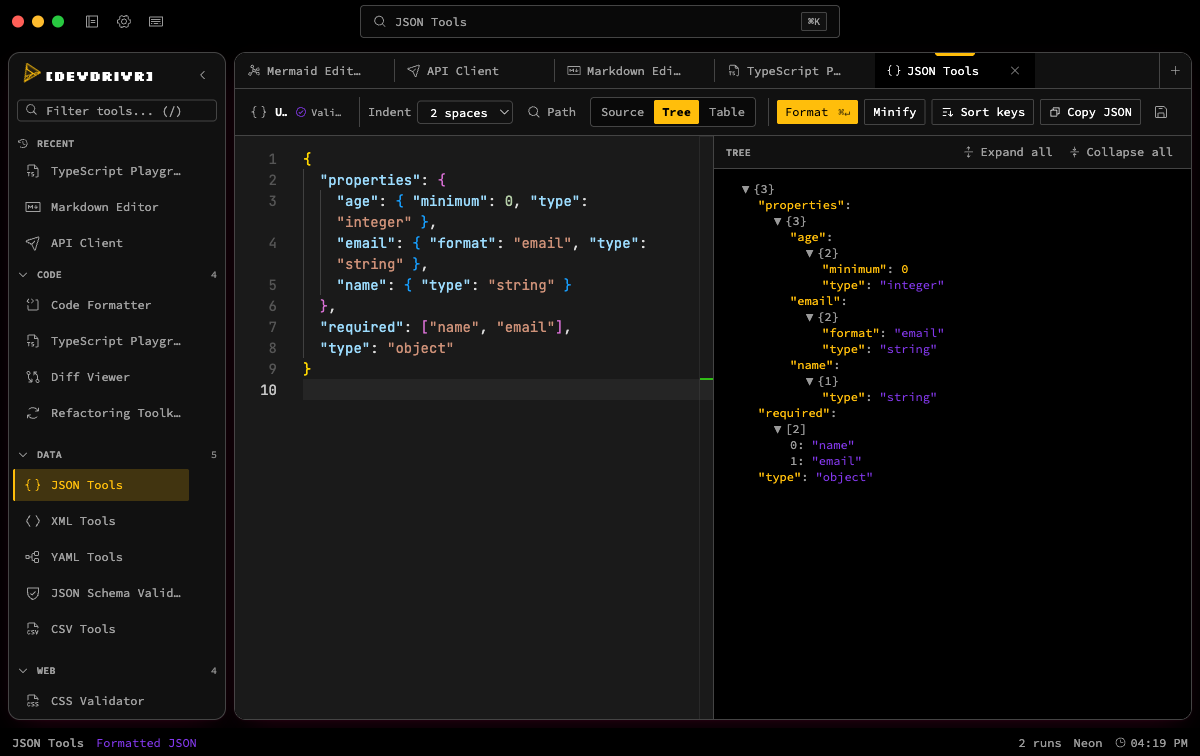
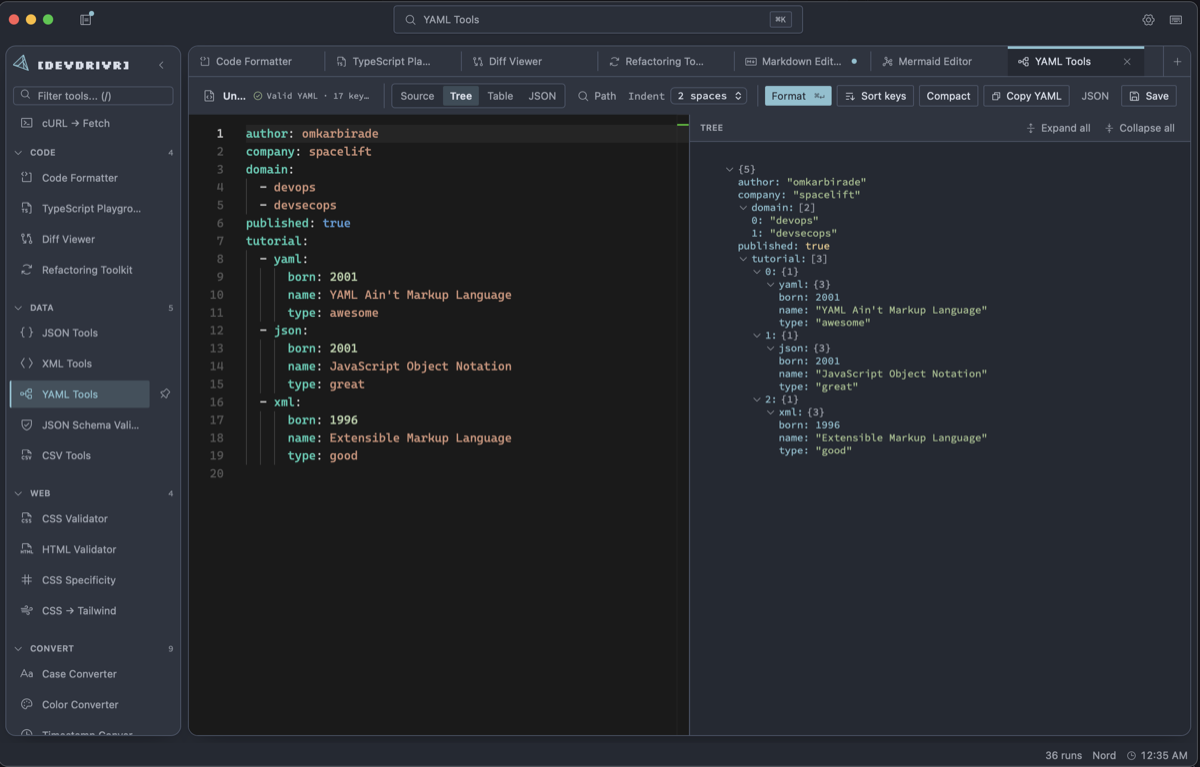
docs: refresh README screenshots
Replaces the overview, code, data and writing shots with current captures
and adds two more: Code Formatter and CSV Tools. Alt text and captions now
describe what each image actually shows — the code slot is the Diff Viewer
rather than the TypeScript Playground, and the data slot is YAML Tools
rather than JSON Tools.

The API Client shot is unchanged; there was no new capture for it.

diff --git a/README.md b/README.md
@@ -89,13 +89,21 @@ bun run build:web    # Production web build
 
 ## Screenshots
 
-![TypeScript Playground with source, compiled output, and problems](screenshots/cockpit-code-tools.png)
+![Code Formatter with JavaScript source and formatting options](screenshots/cockpit-code-formatter.png)
 
-**Code** — Edit, compile, compare, and refactor without leaving the workspace.
+**Format** — Prettier-backed formatting with indent, quote, semicolon, and trailing-comma controls.
 
-![JSON Tools showing source and tree inspection side by side](screenshots/cockpit-data-tools.png)
+![Diff Viewer comparing two files side by side above a unified patch](screenshots/cockpit-code-tools.png)
+
+**Compare** — Side-by-side and unified diffs, whitespace and case folding, patches you can copy or save.
+
+![YAML Tools showing source and an expandable tree inspector](screenshots/cockpit-data-tools.png)
 
 **Data** — Inspect, validate, format, and convert structured data side by side.
+
+![CSV Tools showing raw CSV beside a sortable, filterable table](screenshots/cockpit-csv-tools.png)
+
+**Tabular** — Read CSV as a sortable table, convert it to JSON, or validate it against a schema.
 
 ![API Client with a saved request library and request workspace](screenshots/cockpit-api-client.png)
 
